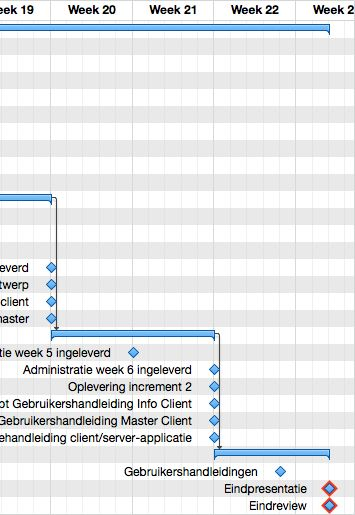
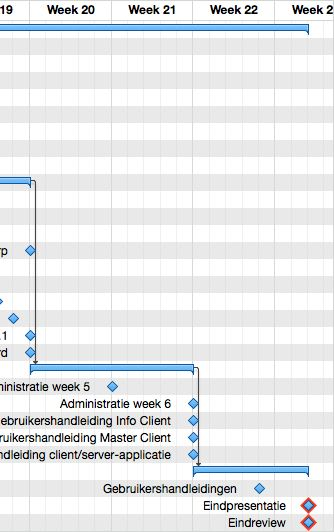
Updated planning to 19 april

diff --git a/planning/ISM2IKBS.V111.html b/planning/ISM2IKBS.V111.html
@@ -21,7 +21,7 @@
                 <td>10-04-12</td>
                 <td>06-06-12</td>
                 <td>144h</td>
-                <td>0%</td>
+                <td>20,83%</td>
                 <td></td>
                 <td></td>
             </tr>
@@ -30,7 +30,7 @@
                 <td>10-04-12</td>
                 <td>06-06-12</td>
                 <td>144h</td>
-                <td>0%</td>
+                <td>20,83%</td>
                 <td></td>
                 <td></td>
             </tr>
@@ -45,73 +45,64 @@
             </tr>
             <tr class="taskTypeGroup">
                 <td style="padding-left: 28px;" class="wrap">1.2) Opstartfase</td>
-                <td>10-04-12</td>
+                <td>13-04-12</td>
                 <td>23-04-12</td>
-                <td>36h</td>
-                <td>0%</td>
+                <td>24h</td>
+                <td>80%</td>
                 <td></td>
                 <td></td>
             </tr>
             <tr class="taskTypeGroup">
                 <td style="padding-left: 38px;" class="wrap">1.2.1) Plan van Aanpak</td>
-                <td>10-04-12</td>
+                <td>13-04-12</td>
                 <td>23-04-12</td>
-                <td>36h</td>
-                <td>0%</td>
-                <td></td>
-                <td></td>
-            </tr>
-            <tr class="taskTypeTask">
-                <td style="padding-left: 48px;" class="wrap">1.2.1.1) Maken plan van aanpak</td>
-                <td>10-04-12</td>
-                <td>12-04-12</td>
-                <td>12h</td>
-                <td>0%</td>
+                <td>24h</td>
+                <td>80%</td>
                 <td></td>
                 <td></td>
             </tr>
             <tr class="taskTypeMilestone">
-                <td style="padding-left: 48px;" class="wrap">1.2.1.2) Plan van Aanpak ingeleverd</td>
-                <td>12-04-12</td>
-                <td>12-04-12</td>
+                <td style="padding-left: 48px;" class="wrap">1.2.1.1) Concept Plan van Aanpak</td>
+                <td>13-04-12</td>
+                <td>13-04-12</td>
                 <td></td>
-                <td>0%</td>
-                <td>1.2.1.1</td>
+                <td>100%</td>
+                <td></td>
                 <td></td>
             </tr>
             <tr class="taskTypeMilestone">
-                <td style="padding-left: 48px;" class="wrap">1.2.1.3) Administratie week 1 ingeleverd</td>
+                <td style="padding-left: 48px;" class="wrap">1.2.1.2) Administratie week 1</td>
                 <td>16-04-12</td>
                 <td>16-04-12</td>
                 <td></td>
+                <td>100%</td>
+                <td></td>
+                <td></td>
+            </tr>
+            <tr class="taskTypeMilestone">
+                <td style="padding-left: 48px;" class="wrap">1.2.1.3) Plan van Aanpak</td>
+                <td>23-04-12</td>
+                <td>23-04-12</td>
+                <td></td>
+                <td>100%</td>
+                <td></td>
+                <td></td>
+            </tr>
+            <tr class="taskTypeMilestone">
+                <td style="padding-left: 48px;" class="wrap">1.2.1.4) Administratie week 2</td>
+                <td>23-04-12</td>
+                <td>23-04-12</td>
+                <td></td>
                 <td>0%</td>
                 <td></td>
                 <td></td>
             </tr>
             <tr class="taskTypeMilestone">
-                <td style="padding-left: 48px;" class="wrap">1.2.1.4) Uiteindelijke PvA ingeleverd</td>
+                <td style="padding-left: 48px;" class="wrap">1.2.1.5) Concept Functioneel ontwerp klaar</td>
                 <td>23-04-12</td>
                 <td>23-04-12</td>
                 <td></td>
-                <td>0%</td>
-                <td></td>
-                <td></td>
-            </tr>
-            <tr class="taskTypeMilestone">
-                <td style="padding-left: 48px;" class="wrap">1.2.1.5) Administratie week 2 ingeleverd</td>
-                <td>23-04-12</td>
-                <td>23-04-12</td>
-                <td></td>
-                <td>0%</td>
-                <td></td>
-                <td></td>
-            </tr>
-            <tr class="taskTypeMilestone">
-                <td style="padding-left: 48px;" class="wrap">1.2.1.6) Concept Functioneel ontwerp klaar</td>
-                <td>23-04-12</td>
-                <td>23-04-12</td>
-                <td></td>
-                <td>0%</td>
+                <td>100%</td>
                 <td></td>
                 <td></td>
             </tr>
@@ -125,7 +116,16 @@
                 <td></td>
             </tr>
             <tr class="taskTypeMilestone">
-                <td style="padding-left: 38px;" class="wrap">1.3.1) Administratie week 3 ingeleverd</td>
+                <td style="padding-left: 38px;" class="wrap">1.3.1) Concept Technisch ontwerp</td>
+                <td>26-04-12</td>
+                <td>26-04-12</td>
+                <td></td>
+                <td>0%</td>
+                <td></td>
+                <td></td>
+            </tr>
+            <tr class="taskTypeMilestone">
+                <td style="padding-left: 38px;" class="wrap">1.3.2) Functioneel ontwerp</td>
                 <td>07-05-12</td>
                 <td>07-05-12</td>
                 <td></td>
@@ -134,7 +134,7 @@
                 <td></td>
             </tr>
             <tr class="taskTypeMilestone">
-                <td style="padding-left: 38px;" class="wrap">1.3.2) Concept Technisch ontwerp</td>
+                <td style="padding-left: 38px;" class="wrap">1.3.3) Administratie week 3</td>
                 <td>07-05-12</td>
                 <td>07-05-12</td>
                 <td></td>
@@ -143,16 +143,7 @@
                 <td></td>
             </tr>
             <tr class="taskTypeMilestone">
-                <td style="padding-left: 38px;" class="wrap">1.3.3) Functioneel ontwerp</td>
-                <td>07-05-12</td>
-                <td>07-05-12</td>
-                <td></td>
-                <td>0%</td>
-                <td></td>
-                <td></td>
-            </tr>
-            <tr class="taskTypeMilestone">
-                <td style="padding-left: 38px;" class="wrap">1.3.4) Administratie week 4 ingeleverd</td>
+                <td style="padding-left: 38px;" class="wrap">1.3.4) Technisch ontwerp</td>
                 <td>14-05-12</td>
                 <td>14-05-12</td>
                 <td></td>
@@ -161,7 +152,43 @@
                 <td></td>
             </tr>
             <tr class="taskTypeMilestone">
-                <td style="padding-left: 38px;" class="wrap">1.3.5) Technisch ontwerp</td>
+                <td style="padding-left: 38px;" class="wrap">1.3.5) Proof of concept server-client</td>
+                <td>08-05-12</td>
+                <td>08-05-12</td>
+                <td></td>
+                <td>0%</td>
+                <td></td>
+                <td></td>
+            </tr>
+            <tr class="taskTypeMilestone">
+                <td style="padding-left: 38px;" class="wrap">1.3.6) Proof of concept server-master</td>
+                <td>09-05-12</td>
+                <td>09-05-12</td>
+                <td></td>
+                <td>0%</td>
+                <td></td>
+                <td></td>
+            </tr>
+            <tr class="taskTypeMilestone">
+                <td style="padding-left: 38px;" class="wrap">1.3.7) Server v0.1</td>
+                <td>10-05-12</td>
+                <td>10-05-12</td>
+                <td></td>
+                <td>0%</td>
+                <td></td>
+                <td></td>
+            </tr>
+            <tr class="taskTypeMilestone">
+                <td style="padding-left: 38px;" class="wrap">1.3.8) Client v0.1</td>
+                <td>11-05-12</td>
+                <td>11-05-12</td>
+                <td></td>
+                <td>0%</td>
+                <td></td>
+                <td></td>
+            </tr>
+            <tr class="taskTypeMilestone">
+                <td style="padding-left: 38px;" class="wrap">1.3.9) Master v0.1</td>
                 <td>14-05-12</td>
                 <td>14-05-12</td>
                 <td></td>
@@ -170,16 +197,7 @@
                 <td></td>
             </tr>
             <tr class="taskTypeMilestone">
-                <td style="padding-left: 38px;" class="wrap">1.3.6) Proof of concept server-client</td>
-                <td>14-05-12</td>
-                <td>14-05-12</td>
-                <td></td>
-                <td>0%</td>
-                <td></td>
-                <td></td>
-            </tr>
-            <tr class="taskTypeMilestone">
-                <td style="padding-left: 38px;" class="wrap">1.3.7) Proof of concept server-master</td>
+                <td style="padding-left: 38px;" class="wrap">1.3.10) Administratie week 4 ingeleverd</td>
                 <td>14-05-12</td>
                 <td>14-05-12</td>
                 <td></td>
@@ -197,7 +215,7 @@
                 <td></td>
             </tr>
             <tr class="taskTypeMilestone">
-                <td style="padding-left: 38px;" class="wrap">1.4.1) Administratie week 5 ingeleverd</td>
+                <td style="padding-left: 38px;" class="wrap">1.4.1) Administratie week 5</td>
                 <td>21-05-12</td>
                 <td>21-05-12</td>
                 <td></td>
@@ -206,7 +224,7 @@
                 <td></td>
             </tr>
             <tr class="taskTypeMilestone">
-                <td style="padding-left: 38px;" class="wrap">1.4.2) Administratie week 6 ingeleverd</td>
+                <td style="padding-left: 38px;" class="wrap">1.4.2) Administratie week 6</td>
                 <td>28-05-12</td>
                 <td>28-05-12</td>
                 <td></td>
@@ -215,7 +233,7 @@
                 <td></td>
             </tr>
             <tr class="taskTypeMilestone">
-                <td style="padding-left: 38px;" class="wrap">1.4.3) Oplevering increment 2</td>
+                <td style="padding-left: 38px;" class="wrap">1.4.3) Concept Gebruikershandleiding Info Client</td>
                 <td>28-05-12</td>
                 <td>28-05-12</td>
                 <td></td>
@@ -224,7 +242,7 @@
                 <td></td>
             </tr>
             <tr class="taskTypeMilestone">
-                <td style="padding-left: 38px;" class="wrap">1.4.4) Concept Gebruikershandleiding Info Client</td>
+                <td style="padding-left: 38px;" class="wrap">1.4.4) Concept Gebruikershandleiding Master Client</td>
                 <td>28-05-12</td>
                 <td>28-05-12</td>
                 <td></td>
@@ -233,16 +251,7 @@
                 <td></td>
             </tr>
             <tr class="taskTypeMilestone">
-                <td style="padding-left: 38px;" class="wrap">1.4.5) Concept Gebruikershandleiding Master Client</td>
-                <td>28-05-12</td>
-                <td>28-05-12</td>
-                <td></td>
-                <td>0%</td>
-                <td></td>
-                <td></td>
-            </tr>
-            <tr class="taskTypeMilestone">
-                <td style="padding-left: 38px;" class="wrap">1.4.6) Concept Installatiehandleiding client/server-applicatie</td>
+                <td style="padding-left: 38px;" class="wrap">1.4.5) Concept Installatiehandleiding client/server-applicatie</td>
                 <td>28-05-12</td>
                 <td>28-05-12</td>
                 <td></td>
@@ -288,7 +297,7 @@
             </tr>
             </table>
         <p/>
-        <p class="footer">Exported 12-04-12</p>
+        <p class="footer">Exported 19-04-12</p>
         <p class="footer">OmniPlan&nbsp;1.7&nbsp;by <a href="http://www.omnigroup.com">The Omni Group</a></p>
     </body>
 </html>

diff --git a/planning/index.html b/planning/index.html
@@ -248,7 +248,7 @@ img.icon
                         <td class="data-content-big">06-06-12</td>
                         <td class="data-content-big"></td>
                         <td class="data-content-big"></td>
-                        <td class="data-content-big">0%</td>
+                        <td class="data-content-big">21%</td>
                     </tr>
                 </table>
             </div>
@@ -329,7 +329,7 @@ img.icon
                     </table>
             </div>
         </div>
-        <p class="footer">Exported 12-04-12</p>
+        <p class="footer">Exported 19-04-12</p>
         <p class="footer">OmniPlan&nbsp;1.7&nbsp;by <a href="http://www.omnigroup.com">The Omni Group</a></p>
 	</body>
 </html>

diff --git a/planning/ISM2IKBS.V111Resources.html b/planning/ISM2IKBS.V111Resources.html
@@ -56,7 +56,7 @@
             
             </table>
         <p/>
-        <p class="footer">Exported 12-04-12</p>
+        <p class="footer">Exported 19-04-12</p>
         <p class="footer">OmniPlan&nbsp;1.7&nbsp;by <a href="http://www.omnigroup.com">The Omni Group</a></p>
     </body>
 </html>
